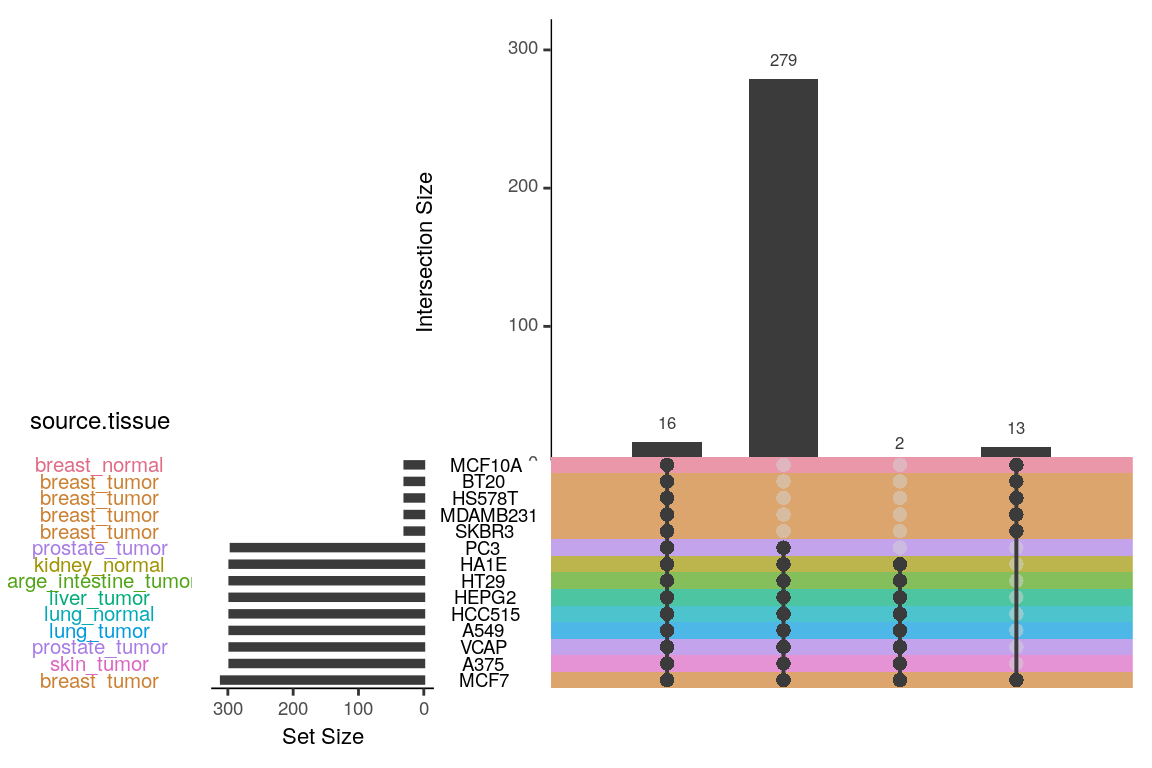
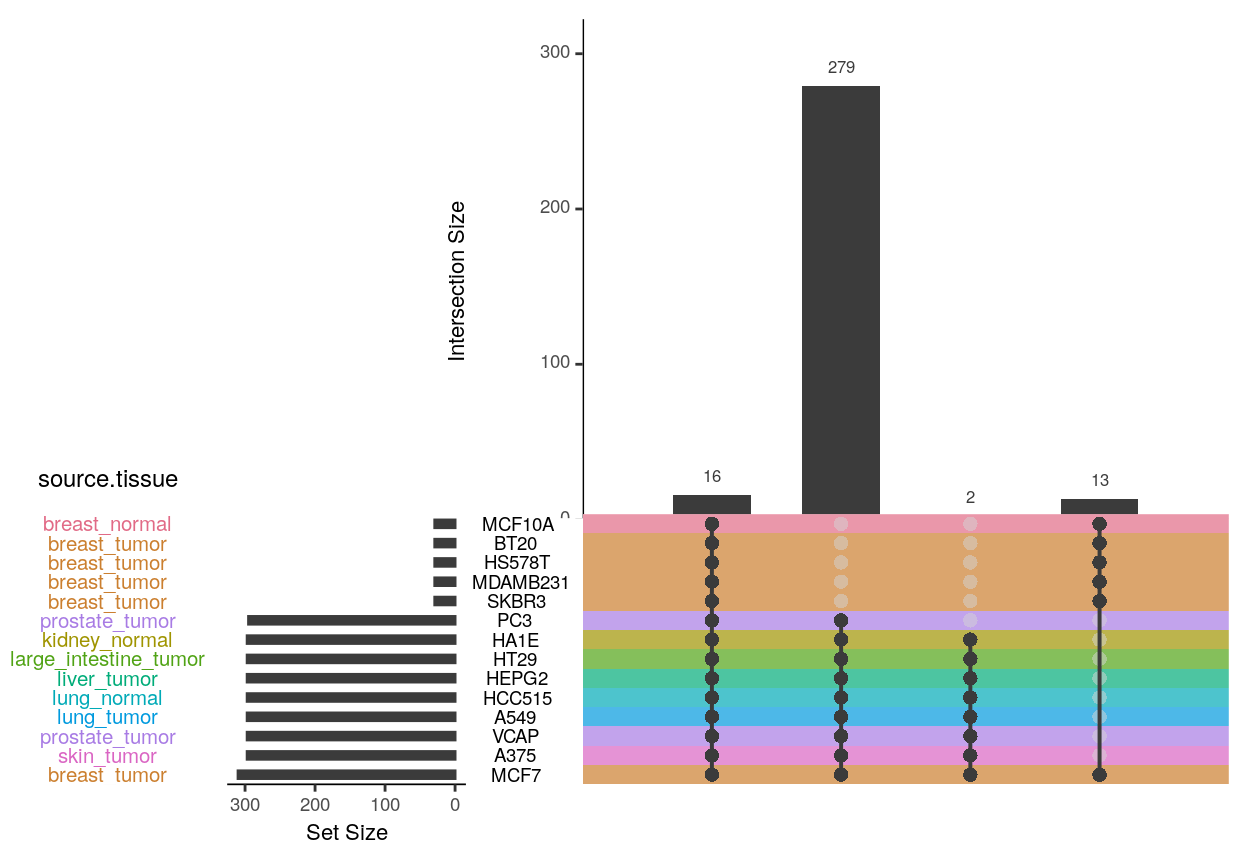
fig edits

diff --git a/docs/CmapDataSummary.html b/docs/CmapDataSummary.html
@@ -401,7 +401,7 @@ $(document).ready(function () {
 <h1><strong>Quantile-normalized transcriptomes from control and ligand-treated cell lines (level 3 data)</strong></h1>
 <div id="ligands-cell-lines-assayed" class="section level2">
 <h2>Ligands / cell lines assayed</h2>
-<p><img src="CmapDataSummary_files/figure-html/lvl3_data_summary-1.png" width="576" /></p>
+<p><img src="CmapDataSummary_files/figure-html/lvl3_data_summary-1.png" width="624" /></p>
 <p>In the Connectivity Map data, there are 16 ligands assayed in all 14 cell lines, and 300 ligands assayed in 8 cell lines.</p>
 <table class="table" style="margin-left: auto; margin-right: auto;">
 <thead>
